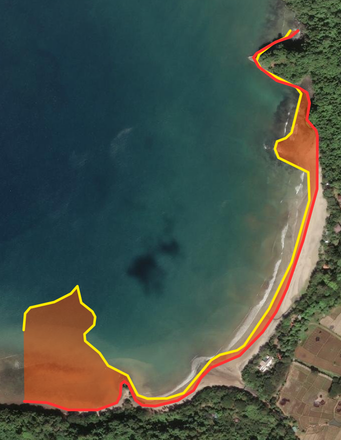
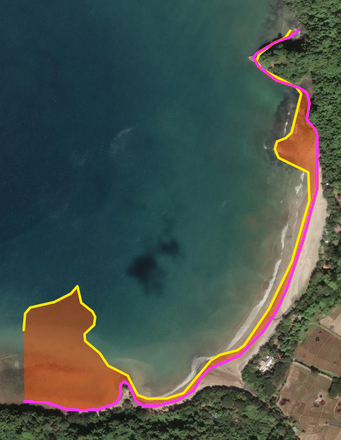
UI fixes & removed LGU in Request Access

diff --git a/frontend/src/pages/admin/DataUpload.jsx b/frontend/src/pages/admin/DataUpload.jsx
@@ -127,6 +127,8 @@ export default function DataUpload() {
 
   // NDWI card has no location concept of its own, so this feeds the Coastline Name dropdown.
   const [ndwiMunicipality, setNdwiMunicipality] = useState("");
+  // Open on arrival so new admins still meet it, collapsible so regulars can reclaim the space.
+  const [coordinateHelpOpen, setCoordinateHelpOpen] = useState(true);
 
   const { errors: aoiErrors, warnings: aoiWarnings } = useMemo(
     () =>
@@ -489,6 +491,54 @@ export default function DataUpload() {
               <p className="placeholder-secondary" style={{ margin: '0 0 16px' }}>
                 Generate NDWI imagery from Google Earth Engine using a bounding box, then generate a single year or all available years (2015–{new Date().getFullYear()}) at once — each is analyzed and saved automatically, no manual upload step needed.
               </p>
+
+              <div
+                className={`info-box ndwi-coordinate-help ${coordinateHelpOpen ? "is-expanded" : "is-collapsed"}`}
+                id="ndwi-coordinate-help"
+              >
+                <button
+                  type="button"
+                  className="coordinate-help-header"
+                  onClick={() => setCoordinateHelpOpen((v) => !v)}
+                  aria-expanded={coordinateHelpOpen}
+                  aria-controls="ndwi-coordinate-help-body"
+                >
+                  <h4>Where do I get these coordinates?</h4>
+                  <i
+                    className={`pi ${coordinateHelpOpen ? "pi-chevron-up" : "pi-chevron-down"} coordinate-help-chevron`}
+                    aria-hidden="true"
+                  />
+                </button>
+
+                <div className="coordinate-help-body" id="ndwi-coordinate-help-body">
+                <p>
+                  A bounding box is just two corners. The <strong>south-west</strong> corner gives you Latitude Min and Longitude Min; the <strong>north-east</strong> corner gives you Latitude Max and Longitude Max.
+                </p>
+                <p>
+                  <strong>Google Earth Pro</strong> is a free desktop app and the easiest way to find them: open it, navigate to the stretch of coast you want, and read the latitude and longitude off the status bar at the bottom of the window as you move the cursor. It displays coordinates as <code>14&deg;33'0.76&quot;N</code> — paste that straight into these fields, no conversion needed.
+                </p>
+                <a
+                  className="coordinate-help-link"
+                  href="https://www.google.com/earth/about/versions/"
+                  target="_blank"
+                  rel="noopener noreferrer"
+                >
+                  Download Google Earth Pro
+                </a>
+                <p className="coordinate-help-alt-label">Other ways to get them:</p>
+                <ul>
+                  <li>
+                    <strong>Google Maps</strong> — right-click any point; the coordinates appear at the top of the menu, click them to copy.
+                  </li>
+                  <li>
+                    <strong>Google Earth on the web</strong> (earth.google.com) — the same idea, with nothing to install.
+                  </li>
+                  <li>
+                    <strong>An area already in the system</strong> — pick it under Coastline Name below and all four fields fill in automatically from the bounds used for it before.
+                  </li>
+                </ul>
+                </div>
+              </div>
 
               <div className="form-grid" id="ndwi-generator-fields">
                 <div className="form-group">

diff --git a/frontend/src/pages/styles/data-upload.css b/frontend/src/pages/styles/data-upload.css
@@ -650,6 +650,90 @@
   font-size: 0.9rem;
 }
 
+/* Coordinate-sourcing help inside the NDWI card. Rides on .info-box for the frame and
+   only adds what that base doesn't cover: prose spacing, real bullets (the base sets
+   list-style: none, which suits its icon lists but not a plain list of alternatives),
+   and the outbound download link as a small outlined button. */
+.ndwi-coordinate-help {
+  margin: 0 0 20px;
+}
+
+/* Collapsible header — mirrors the .legend-header idiom in mapLegend.css so the two
+   disclosure controls in the app behave and read the same way. */
+.ndwi-coordinate-help .coordinate-help-header {
+  display: flex;
+  align-items: center;
+  justify-content: space-between;
+  gap: 12px;
+  width: 100%;
+  padding: 0;
+  border: none;
+  background: none;
+  cursor: pointer;
+  text-align: left;
+}
+
+.ndwi-coordinate-help .coordinate-help-header h4 {
+  margin: 0;
+}
+
+.ndwi-coordinate-help .coordinate-help-chevron {
+  flex: none;
+  font-size: 0.8rem;
+  color: #0077b6;
+  transition: transform 0.2s ease;
+}
+
+.ndwi-coordinate-help.is-expanded .coordinate-help-body {
+  margin-top: 14px;
+}
+
+.ndwi-coordinate-help.is-collapsed .coordinate-help-body {
+  display: none;
+}
+
+.ndwi-coordinate-help p {
+  margin: 0 0 10px;
+  font-size: 0.92rem;
+  color: #4a5568;
+  line-height: 1.55;
+}
+
+.ndwi-coordinate-help ul {
+  list-style: disc;
+  padding-left: 22px;
+}
+
+.ndwi-coordinate-help li {
+  margin-bottom: 6px;
+  font-size: 0.92rem;
+}
+
+.ndwi-coordinate-help .coordinate-help-link {
+  display: inline-block;
+  margin: 4px 0 14px;
+  padding: 7px 14px;
+  border: 1px solid #0077b6;
+  border-radius: 6px;
+  color: #0077b6;
+  font-size: 0.88rem;
+  font-weight: 600;
+  text-decoration: none;
+  transition: background 0.2s ease, color 0.2s ease;
+}
+
+.ndwi-coordinate-help .coordinate-help-link:hover,
+.ndwi-coordinate-help .coordinate-help-link:focus-visible {
+  background: #0077b6;
+  color: #fff;
+}
+
+.ndwi-coordinate-help .coordinate-help-alt-label {
+  margin-bottom: 6px;
+  font-weight: 600;
+  color: #334155;
+}
+
 @media (max-width: 768px) {
   .data-upload-container {
     padding: 20px 15px;

diff --git a/frontend/src/tours/steps/dataUploadSteps.js b/frontend/src/tours/steps/dataUploadSteps.js
@@ -30,12 +30,12 @@ export function buildDataUploadSteps(setUploadType) {
         "The NDWI Generator uses Google Earth Engine to generate NDWI satellite imagery. Enter the required information: Latitude Min (South), Latitude Max (North), Longitude Min (West), Longitude Max (East), Municipality, and Coastline Name. These values define the area that will be processed.",
     },
     {
-      target: "#ndwi-aoi-picker",
-      placement: "top",
-      title: "Pick the Area on the Map",
-      before: scrollNdwiTargetIntoView(setUploadType, "#ndwi-aoi-picker"),
+      target: "#ndwi-coordinate-help",
+      placement: "bottom",
+      title: "Where the Coordinates Come From",
+      before: scrollNdwiTargetIntoView(setUploadType, "#ndwi-coordinate-help"),
       content:
-        "Instead of typing coordinates, pick a municipality then click its coast on the map. The pin snaps to the coastline and the box around it is the area that gets analysed — the slider sets how wide that box is. Because every image is resampled to a 256×256 grid before the shoreline is traced, a smaller box measures more precisely; the readout shows the resulting metres per pixel. Warnings appear here if the box misses the shoreline or drifts from the bounds used for this area in earlier years.",
+        "If you don't already have coordinates for the area you want, this panel is where to start — it lists the tools that give you them, including a download link for Google Earth Pro. The key idea is that a bounding box is just two corners: south-west sets the two Min fields, north-east sets the two Max fields. Whatever tool you use, coordinates can be pasted in exactly as that tool displays them, in either decimal or degrees-minutes-seconds form.",
     },
     {
       target: "#generate-ndwi-btn",

diff --git a/frontend/src/pages/register.jsx b/frontend/src/pages/register.jsx
@@ -17,7 +17,6 @@ import { Button } from "primereact/button";
 const POSITION_OPTIONS = [
   "DENR Officer",
   "Municipal Environment and Natural Resources Officer (MENRO)",
-  "LGU Staff",
   "Environmental Researcher",
   "Coastal Resource Management Officer",
   "Others",
